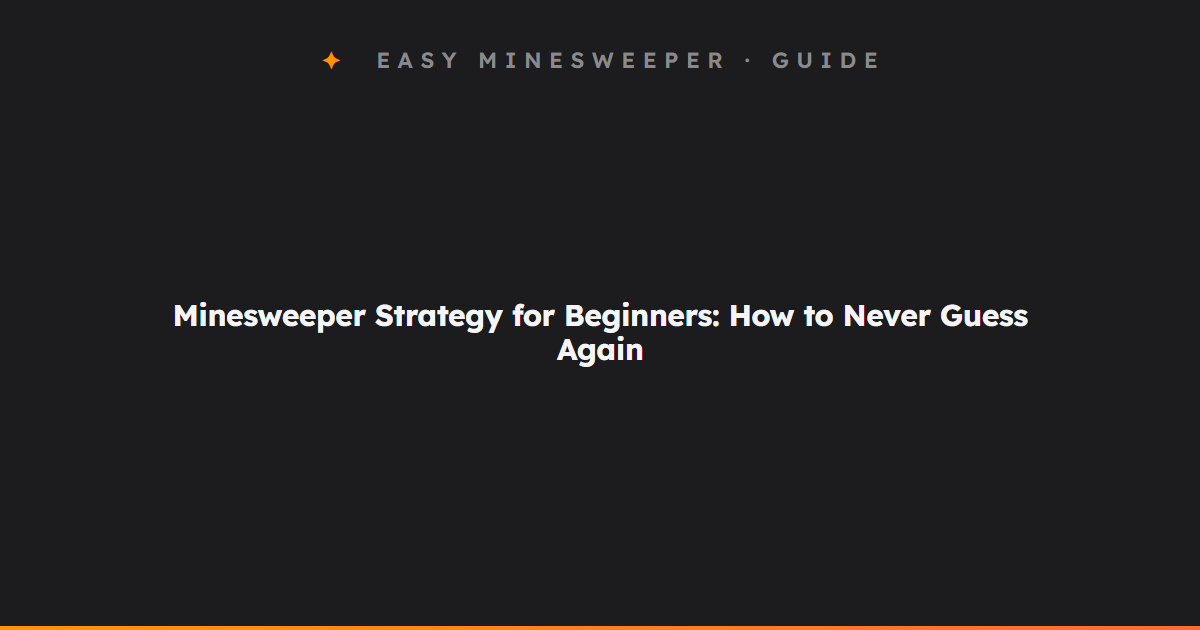
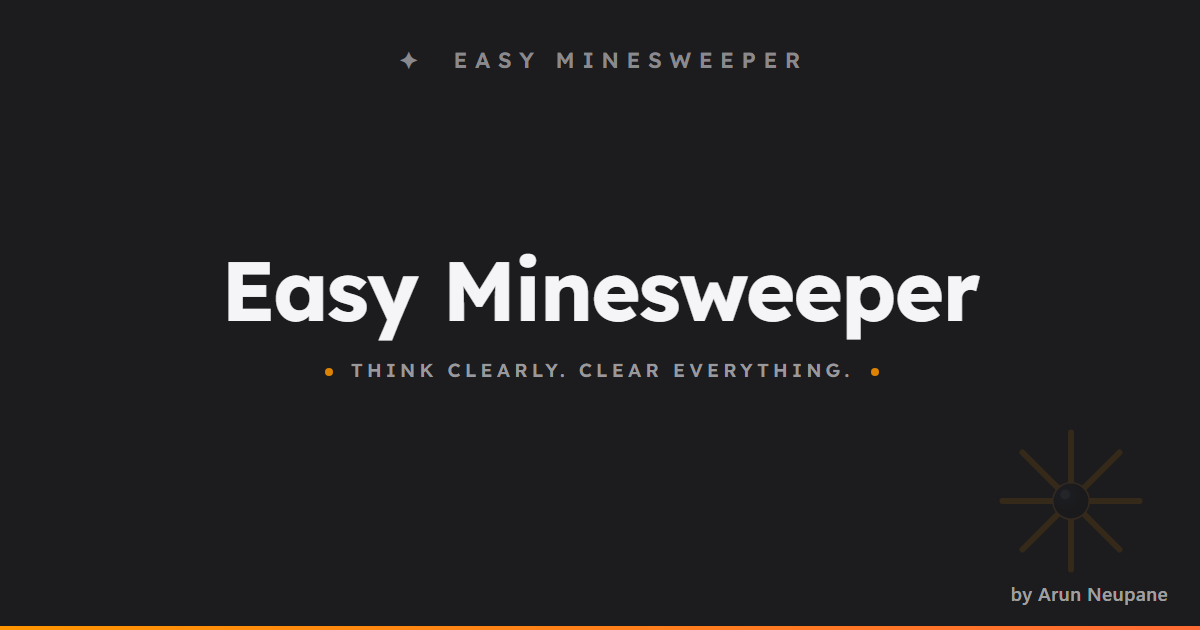
feat(site): watermark developer credit onto social share cards via make-og.mjs

diff --git a/README.md b/README.md
@@ -29,7 +29,7 @@ pnpm test        # vitest run (engine + store suites)
 pnpm build       # next build (output: out/)
 ```
 
-`node scripts/make-icons.mjs` regenerates the app icons, favicon, and social card from a dependency-free rasterizer (PNG/ICO emitted to `public/`).
+`node scripts/make-icons.mjs` regenerates the app icons, favicon, and social card from a dependency-free rasterizer (PNG/ICO emitted to `public/`). `node scripts/make-og.mjs` then composites the developer watermark onto the 1200x630 share cards (`public/og.png` + every `public/og/<slug>.png`).
 
 `pnpm build && node scripts/screenshots.mjs` regenerates the desktop/mobile screenshots below (serves the `out/` export locally and drives Chromium via Playwright).
 
@@ -50,7 +50,7 @@ src/
   app/       Next.js app router shell, metadata, manifest, sitemap, robots
   lib/       shared site facts (SITE_URL etc.)
 rules/       design and game-logic source of truth, tracked in rules/tracker.md
-scripts/     icon generator (make-icons.mjs), screenshot capture (screenshots.mjs)
+scripts/     icon generator (make-icons.mjs), OG watermark (make-og.mjs), screenshot capture (screenshots.mjs)
 public/      service worker, icons, social card, sitemap, robots.txt, llms.txt
 screenshots/ desktop + mobile captures for this README
 ```

diff --git a/CHANGELOG.md b/CHANGELOG.md
@@ -12,6 +12,7 @@ semantic-version to the plan in `rules/plan.md`.
 - `public/llms.txt` so LLM crawlers and AI answer engines can find and cite the site (GEO).
 - Per-route metadata for `/play`: canonical, title, description, Open Graph, and Twitter card.
 - Visible developer credit on the game screen, alongside the footer watermark and console easter egg.
+- Developer watermark ("by Arun Neupane") on the social share cards, rendered by `scripts/make-og.mjs`.
 
 ### Fixed
 
